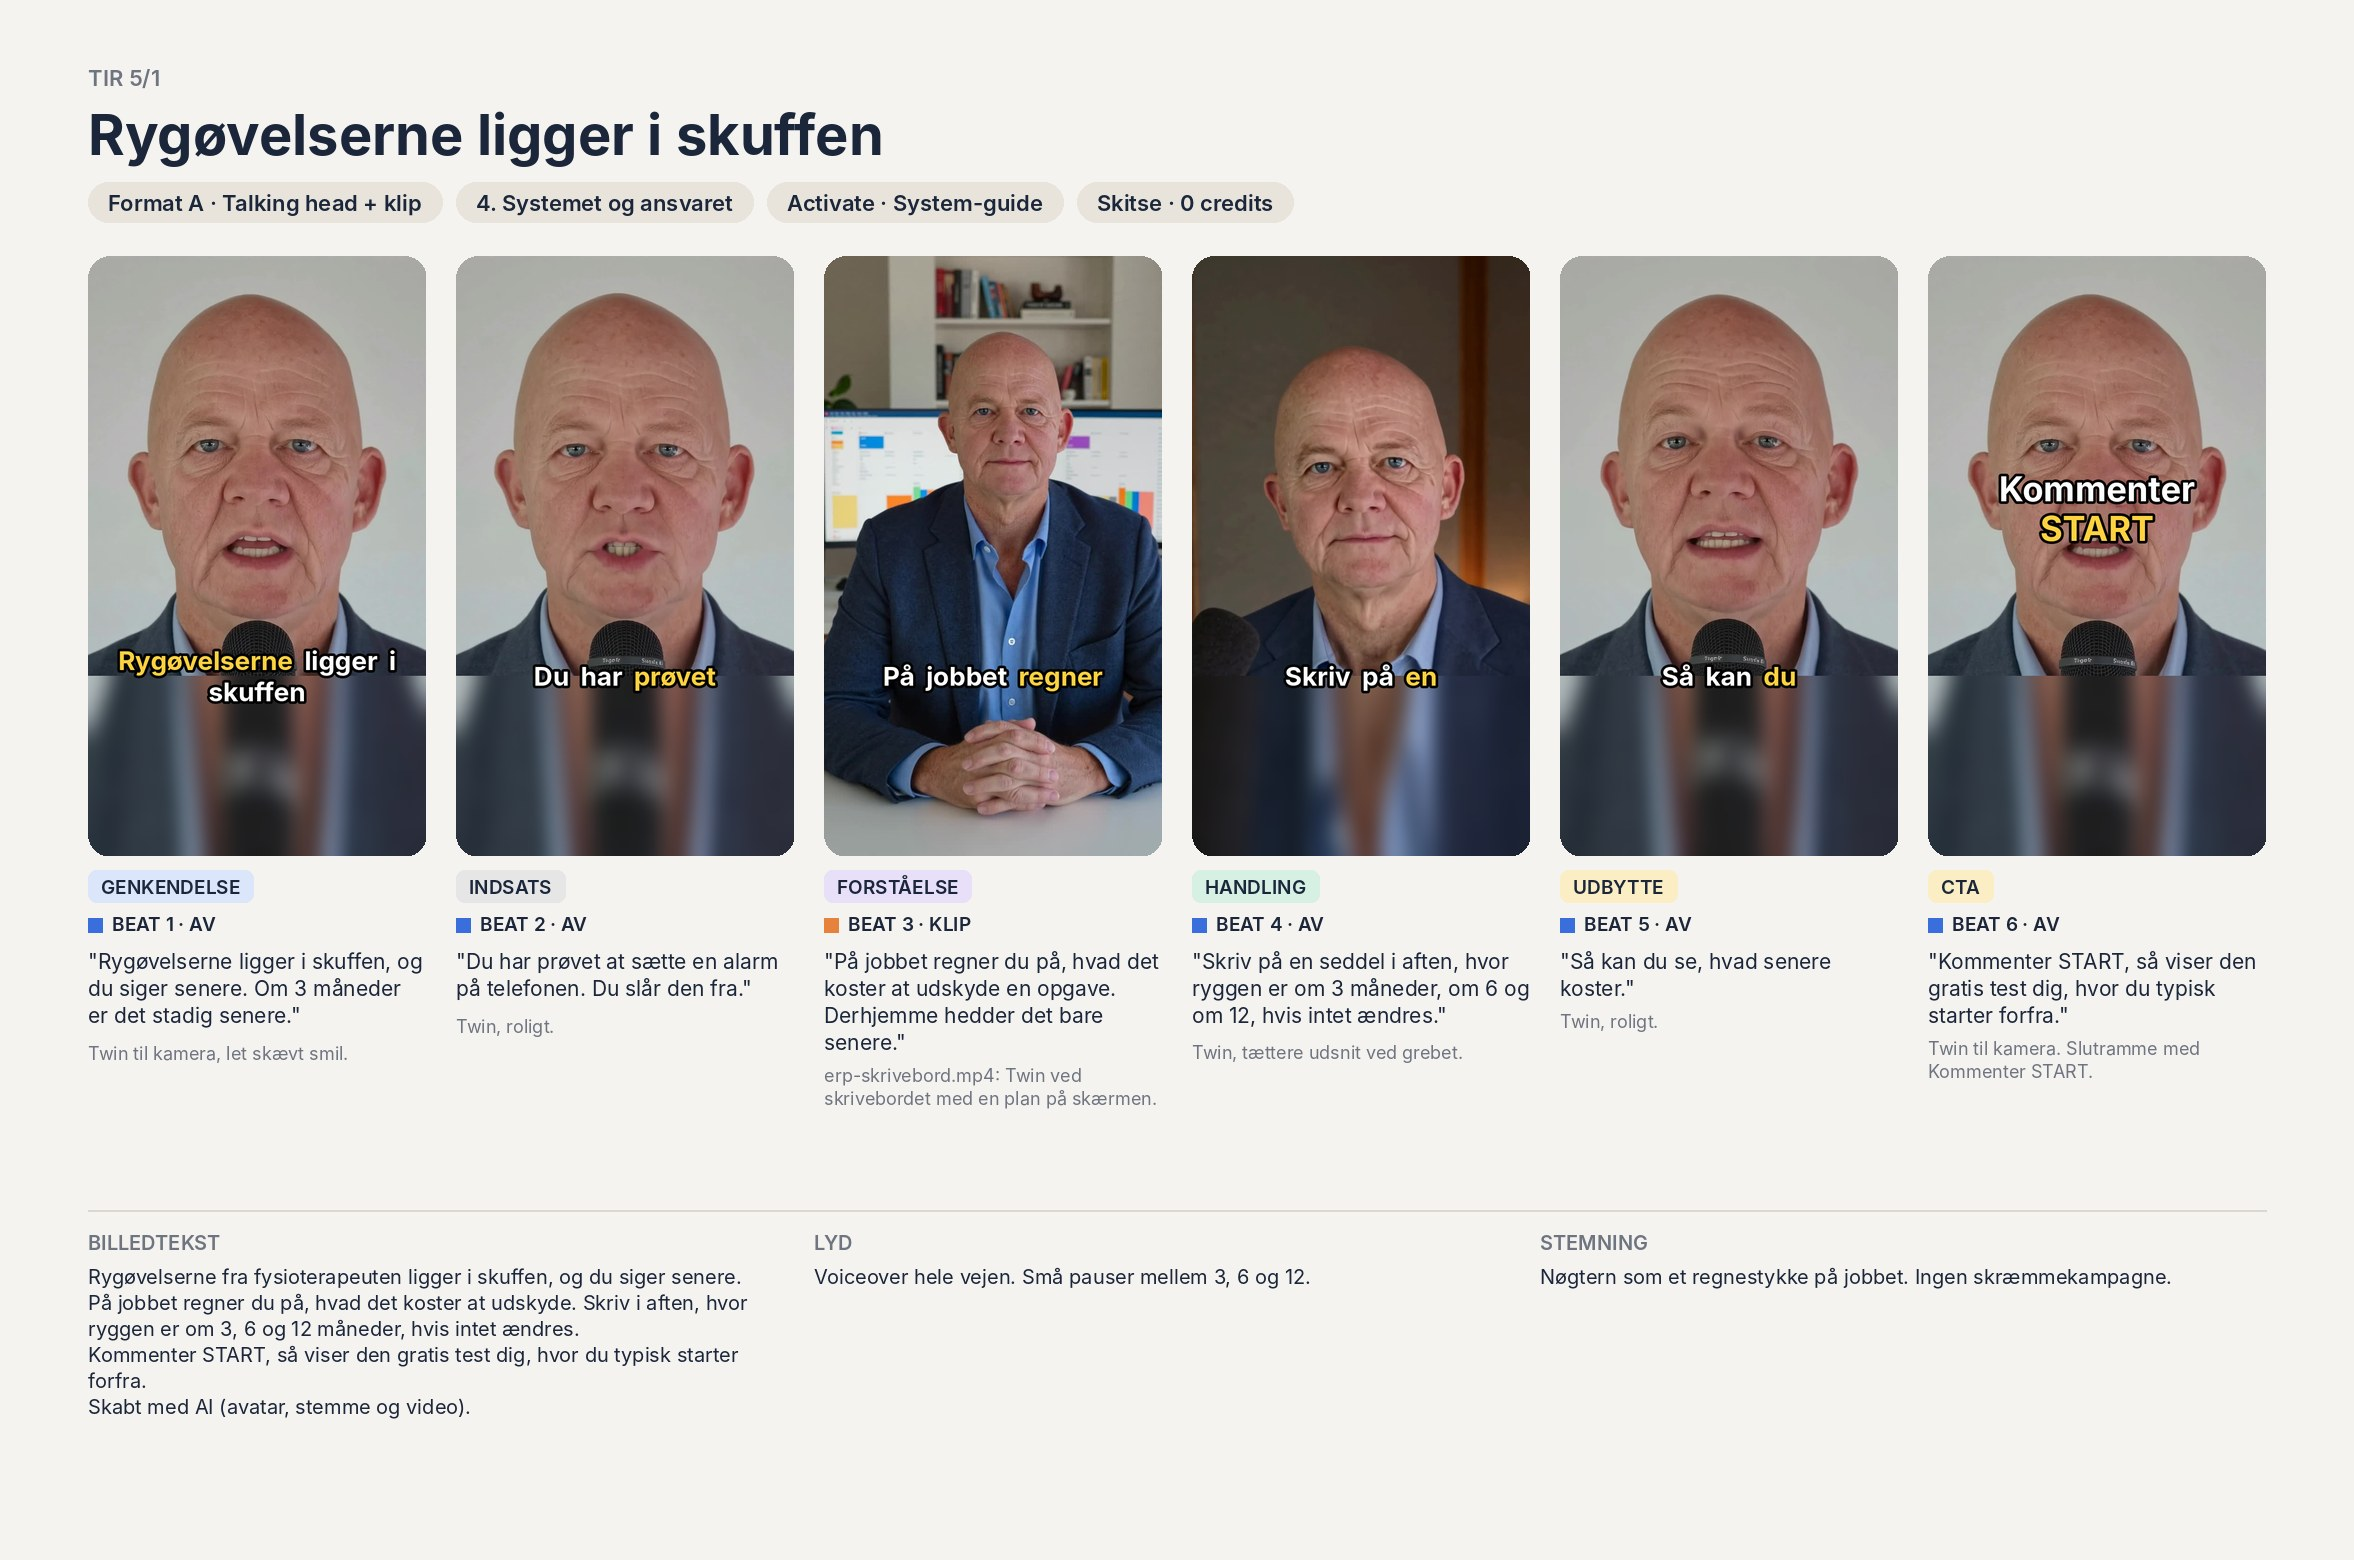
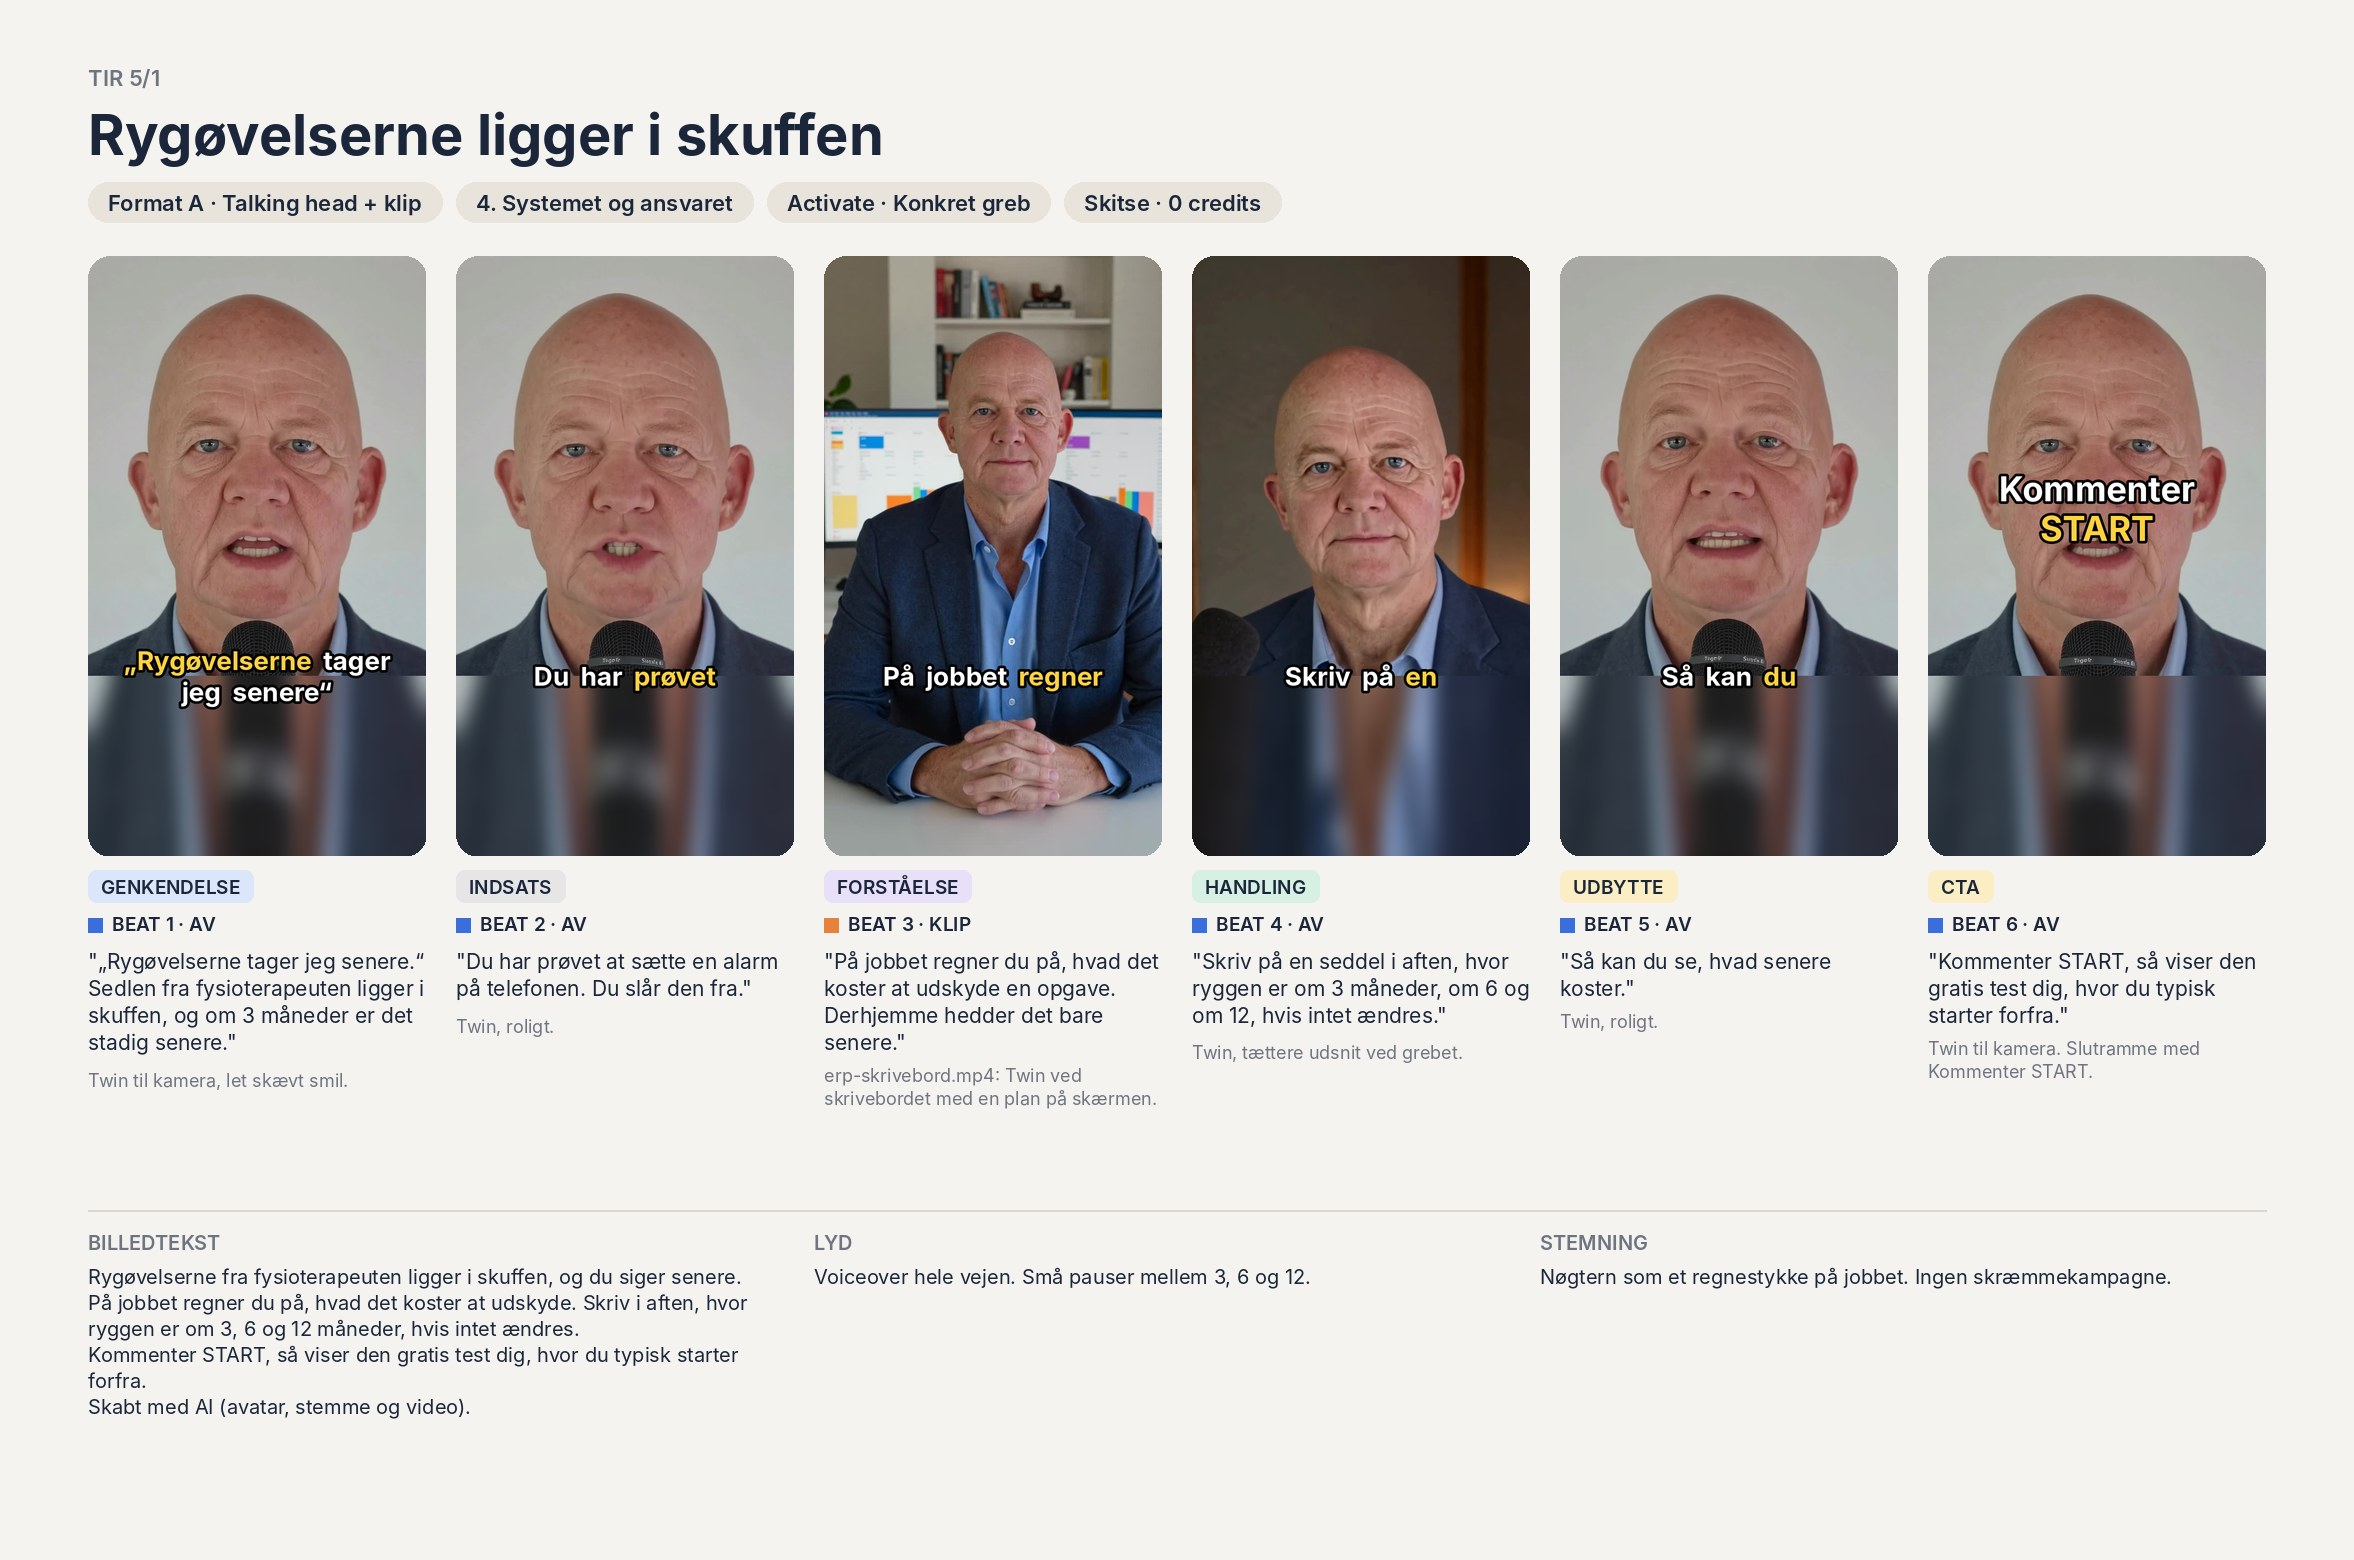
Kørsel 10: tjek for skærmtekst-form; trin 4-omskrivning
Claude-Session: https://claude.ai/code/session_01DbWx9e49EPcNnfPaAMAUYt

diff --git a/tools/mekaniske_tjek.py b/tools/mekaniske_tjek.py
@@ -33,7 +33,7 @@ def tjek(p):
     skn = len(ord(sk))
     res.append(("Skærmtekst 2–5 ord", 2 <= skn <= 5, f"{skn} ord"))
     res.append(("Ét accentord", p["skaermtekst"].count("*") == 2, p["skaermtekst"]))
-    res.append(("Skærmtekst = første talte ord", tale.lower().startswith(sk.lower()), f"tale starter: '{tale[:40]}'"))
+    res.append(("Skærmtekst = første talte ord", re.sub(r"^[\"“”„«»\s]+", "", tale).lower().startswith(sk.lower()), f"tale starter: '{tale[:40]}'"))
     # Situation først (Scripting Framework, tilføjet 21/10-2026 efter SOP-kørsel 2)
     sit = re.search(r"Situation:\s*\S", p.get("noter", "") + " " + p.get("situation", ""))
     res.append(("Situation-linje skrevet før manuskript", bool(sit), "mangler 'Situation: sted · tid · handling'" if not sit else ""))
@@ -257,6 +257,12 @@ def tjek_k9(p, tale):
 
 def uge(posts):
     res = []
+    # Kørsel 10: alle fire skærmtekster havde samme form ("*Ting* + tilstand"). Formen skal skifte dag til dag.
+    def form(p):
+        sk = p["skaermtekst"].strip()
+        return (sk.lstrip("„\"“").startswith("*"), sk.endswith("?"), bool(re.search(r"[„“\"]", sk)))
+    for a, b in zip(posts, posts[1:]):
+        res.append((f"{a['id']}→{b['id']} skærmteksten skifter form (accent først / spørgsmål / citat)", form(a) != form(b), str(form(a))))
     # Kørsel 9 (gendom): samme CTA-udbytte to dage i træk.
     def udbytte(p):
         m = re.search(r"viser den (?:gratis test )?dig, (hvor [^.]+)", " ".join(b[2] for b in p.get("beats", []) if b[1] == "CTA"))
